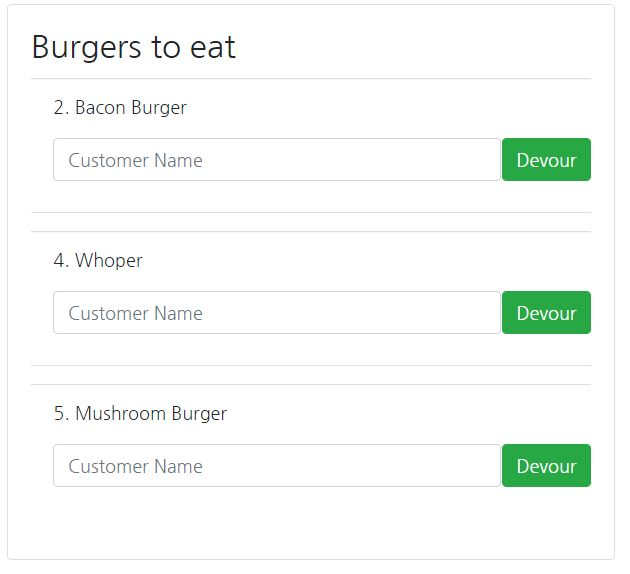
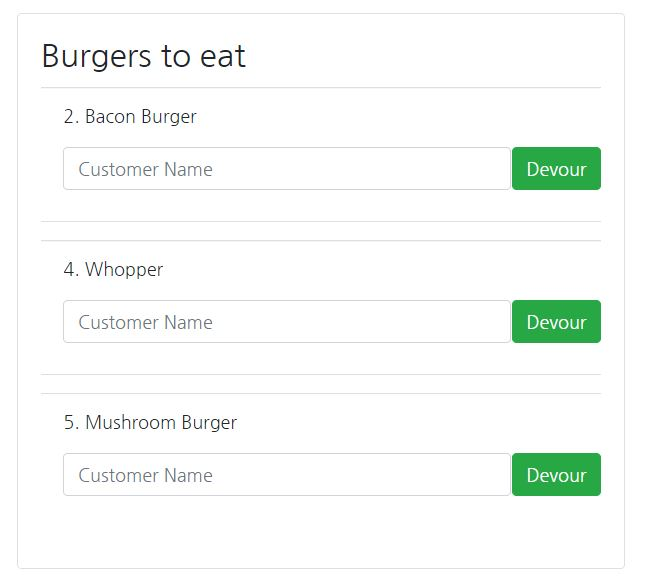
Updating deploy link. Updating burger to eat screenshot

diff --git a/README.md b/README.md
@@ -7,7 +7,7 @@ This is a mobile friendly burger logger built with MySQL, Node, Express, Handleb
 * Each burger in the `Burgers to eat` area also has a `Devour` button. When the user clicks it, the burger will move to the `Burgers devoured` area.
 * The app will store every burger in a `mySQL` database.
 
-The deployed application can be found [here](https://noel-eat-burger.herokuapp.com/).
+The deployed application can be found [here](https://noel-eat-burger-sequel.herokuapp.com//).
 
 ## To add a new burger
 
